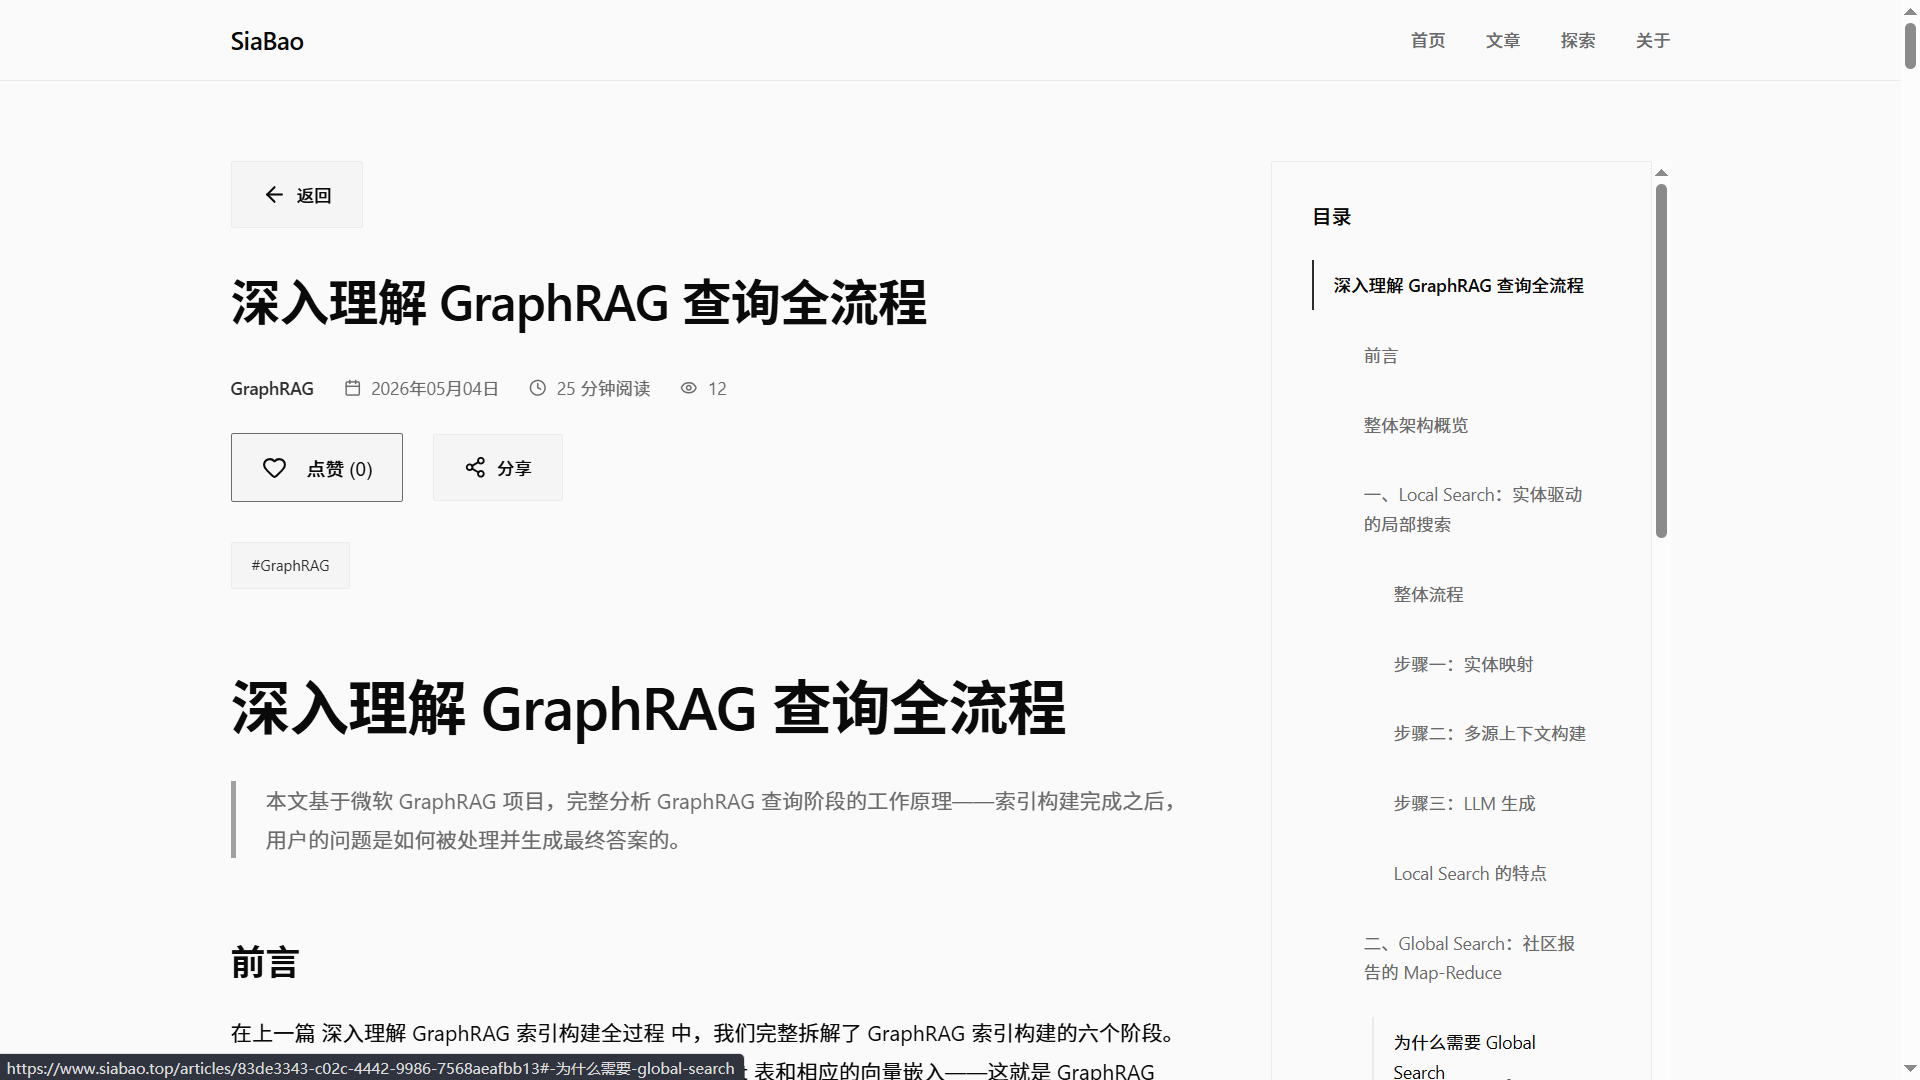
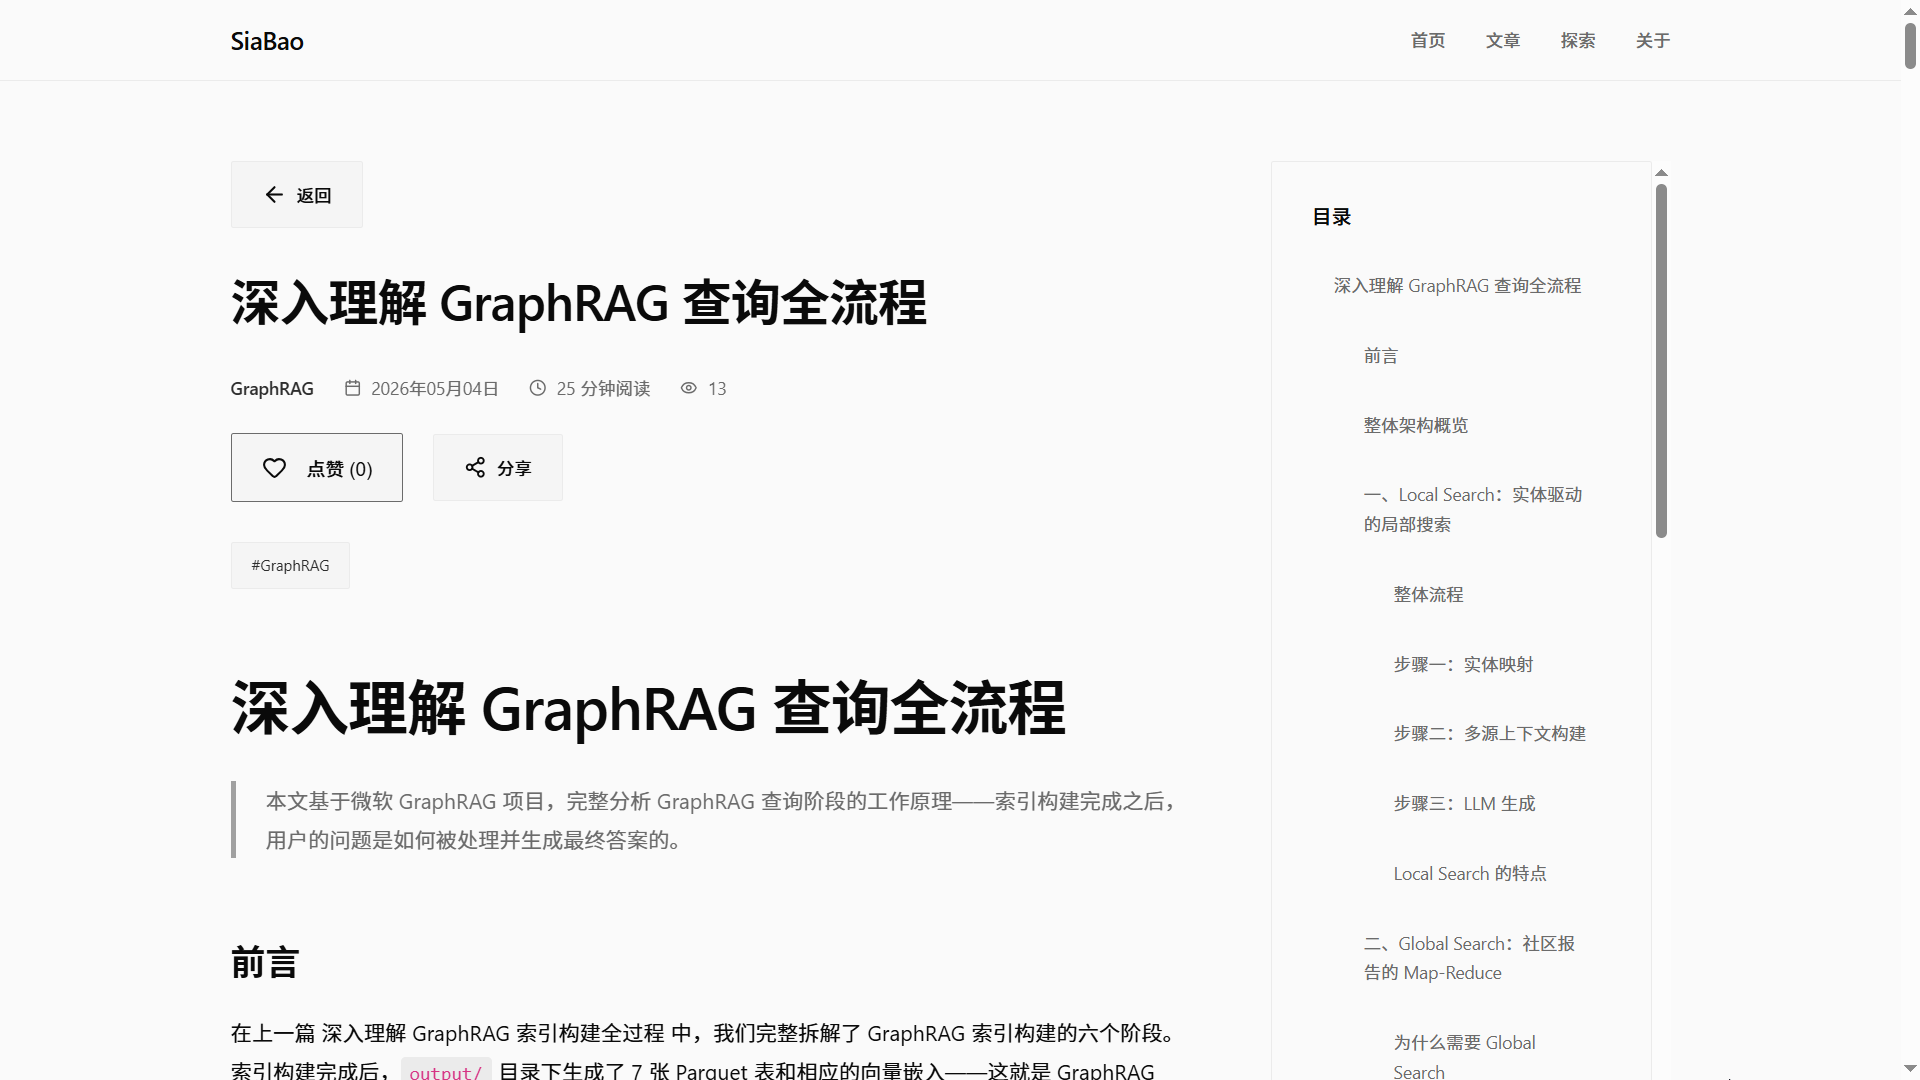
fix(admin): 导航高亮前缀匹配 + 修复热力图缓存丢失 + 登录密码可见切换
- Header/Admin 导航改前缀匹配：文章详情、编辑页等子路由也能高亮当前标签
  （Admin 原本连 active 判断和 .nav-item-active 样式都缺失，一并补上）
- Dashboard 修复热力图缓存 bug：模块级只缓存了 stats，离开后台再返回时
  命中缓存提前 return，heatmap 因未缓存而丢失 → 全部灰格。现 heatmap 纳入模块级缓存
- 登录密码框加 Eye/EyeOff 显示切换按钮（type=button、tabIndex=-1、aria-label）

Changed region(s): [[0.0, 0.9778, 0.4062, 1.0], [0.6875, 0.2444, 0.8438, 0.275], [0.7188, 0.9472, 0.7812, 1.0]]

diff --git a/react-ui/src/pages/Admin/Login.jsx b/react-ui/src/pages/Admin/Login.jsx
@@ -1,5 +1,6 @@
 import { useState, useEffect } from 'react'
 import { useNavigate } from 'react-router-dom'
+import { Eye, EyeOff } from 'lucide-react'
 import { useAuth } from '../../hooks/useAuth'
 import { authApi } from '../../api/auth'
 import './Login.css'
@@ -12,6 +13,7 @@ function Login() {
     password: '',
   })
   const [loginError, setLoginError] = useState('')
+  const [showPassword, setShowPassword] = useState(false)
 
   // 已登录用户自动跳转到后台
   useEffect(() => {
@@ -72,16 +74,27 @@ function Login() {
             autoComplete='username'
             disabled={isLoading}
           />
-          <input
-            type='password'
-            name='password'
-            className='input-minimal'
-            placeholder='密码'
-            value={formData.password}
-            onChange={handleChange}
-            autoComplete='current-password'
-            disabled={isLoading}
-          />
+          <div className='password-field'>
+            <input
+              type={showPassword ? 'text' : 'password'}
+              name='password'
+              className='input-minimal input-minimal-with-toggle'
+              placeholder='密码'
+              value={formData.password}
+              onChange={handleChange}
+              autoComplete='current-password'
+              disabled={isLoading}
+            />
+            <button
+              type='button'
+              className='password-toggle'
+              onClick={() => setShowPassword((prev) => !prev)}
+              aria-label={showPassword ? '隐藏密码' : '显示密码'}
+              tabIndex={-1}
+            >
+              {showPassword ? <EyeOff size={18} /> : <Eye size={18} />}
+            </button>
+          </div>
           <button
             type='submit'
             className='btn mt-4'

diff --git a/react-ui/src/pages/Admin/Admin.jsx b/react-ui/src/pages/Admin/Admin.jsx
@@ -1,4 +1,4 @@
-import { Outlet, Link, useNavigate } from 'react-router-dom'
+import { Outlet, Link, useNavigate, useLocation } from 'react-router-dom'
 import { useEffect, useRef, useState } from 'react'
 import { User, Menu, X } from 'lucide-react'
 import { useAuth } from '../../hooks/useAuth'
@@ -8,8 +8,18 @@ import './Admin.css'
 function Admin() {
   const { user } = useAuth()
   const navigate = useNavigate()
+  const location = useLocation()
   const sidebarNavRef = useRef(null)
   const [sidebarOpen, setSidebarOpen] = useState(false)
+
+  // 按前缀匹配高亮当前导航项，使 /admin/articles/:id/edit 也高亮「文章管理」
+  const adminNavItems = [
+    { path: '/admin/dashboard', label: '仪表板' },
+    { path: '/admin/articles', label: '文章管理' },
+    { path: '/admin/settings', label: '站点配置' },
+  ]
+  const isActive = (path) =>
+    location.pathname === path || location.pathname.startsWith(`${path}/`)
 
   const toggleSidebar = () => {
     setSidebarOpen(prev => !prev)
@@ -125,9 +135,15 @@ function Admin() {
         </div>
 
         <nav className="sidebar-nav" ref={sidebarNavRef}>
-          <Link to="/admin/dashboard" className="nav-item">仪表板</Link>
-          <Link to="/admin/articles" className="nav-item">文章管理</Link>
-          <Link to="/admin/settings" className="nav-item">站点配置</Link>
+          {adminNavItems.map((item) => (
+            <Link
+              key={item.path}
+              to={item.path}
+              className={`nav-item ${isActive(item.path) ? 'nav-item-active' : ''}`}
+            >
+              {item.label}
+            </Link>
+          ))}
         </nav>
 
         {/* 返回前台按钮 - 放在底部 */}

diff --git a/react-ui/src/pages/Admin/Login.css b/react-ui/src/pages/Admin/Login.css
@@ -30,6 +30,44 @@
   width: 100%;
 }
 
+/* 密码输入框 + 显示/隐藏按钮 */
+.password-field {
+  position: relative;
+}
+
+/* 给文本留出按钮空间，避免文字压在图标下 */
+.input-minimal-with-toggle {
+  padding-right: 32px;
+}
+
+.password-toggle {
+  position: absolute;
+  right: 0;
+  /* 与 input-minimal 的垂直 padding(space-2) 对齐到文字基线 */
+  top: 50%;
+  transform: translateY(-50%);
+  display: flex;
+  align-items: center;
+  justify-content: center;
+  padding: 4px;
+  background: transparent;
+  border: none;
+  cursor: pointer;
+  color: var(--text-tertiary);
+  transition: color 0.2s ease;
+  line-height: 0;
+}
+
+.password-toggle:hover {
+  color: var(--text-primary);
+}
+
+.password-toggle:focus-visible {
+  outline: 2px solid var(--color-gray-400);
+  outline-offset: 2px;
+  border-radius: var(--radius-sm);
+}
+
 .login-hint {
   margin-top: var(--space-4);
   text-align: center;

diff --git a/react-ui/src/components/layout/Header.jsx b/react-ui/src/components/layout/Header.jsx
@@ -18,6 +18,12 @@ export default function Header() {
     setMobileMenuOpen((prev) => !prev)
   }
 
+  // '/' 用精确匹配，其余按前缀匹配，使 /articles/:id 也能高亮「文章」
+  const isActive = (path) =>
+    path === '/'
+      ? location.pathname === '/'
+      : location.pathname === path || location.pathname.startsWith(`${path}/`)
+
   return (
     <header className='header'>
       <div className='container header-container'>
@@ -30,7 +36,7 @@ export default function Header() {
             <Link
               key={link.path}
               to={link.path}
-              className={`header-nav-link ${location.pathname === link.path ? 'active' : ''}`}
+              className={`header-nav-link ${isActive(link.path) ? 'active' : ''}`}
               onClick={() => setMobileMenuOpen(false)}
             >
               {link.label}

diff --git a/react-ui/src/pages/Admin/Dashboard.jsx b/react-ui/src/pages/Admin/Dashboard.jsx
@@ -15,6 +15,7 @@ const EMPTY_STATS = {
 // 缓存统计数据 5 分钟
 const CACHE_DURATION = 5 * 60 * 1000
 let cachedStats = null
+let cachedHeatmap = {}
 let cacheTime = 0
 
 function Dashboard() {
@@ -33,6 +34,7 @@ function Dashboard() {
         const now = Date.now()
         if (cachedStats && now - cacheTime < CACHE_DURATION) {
           setStats(cachedStats)
+          setHeatmap(cachedHeatmap)
           setLoading(false)
           return
         }
@@ -60,6 +62,7 @@ function Dashboard() {
 
         // 更新缓存和状态
         cachedStats = transformedStats
+        cachedHeatmap = heatmapData
         cacheTime = now
         setStats(transformedStats)
         setHeatmap(heatmapData)

diff --git a/react-ui/src/pages/Admin/Admin.css b/react-ui/src/pages/Admin/Admin.css
@@ -57,6 +57,12 @@
   color: var(--text-primary);
 }
 
+.nav-item-active {
+  background: var(--bg-tertiary);
+  color: var(--text-primary);
+  font-weight: 600;
+}
+
 /* 返回前台按钮样式 - 固定在侧边栏底部 */
 .nav-back-to-frontend {
   margin-top: auto;
